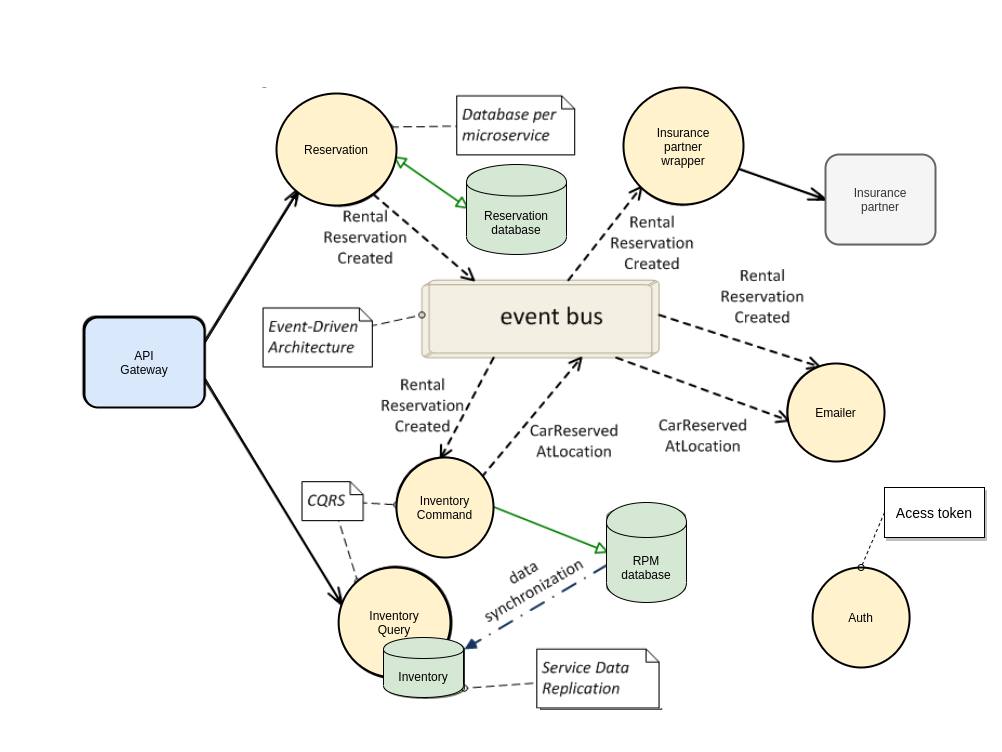
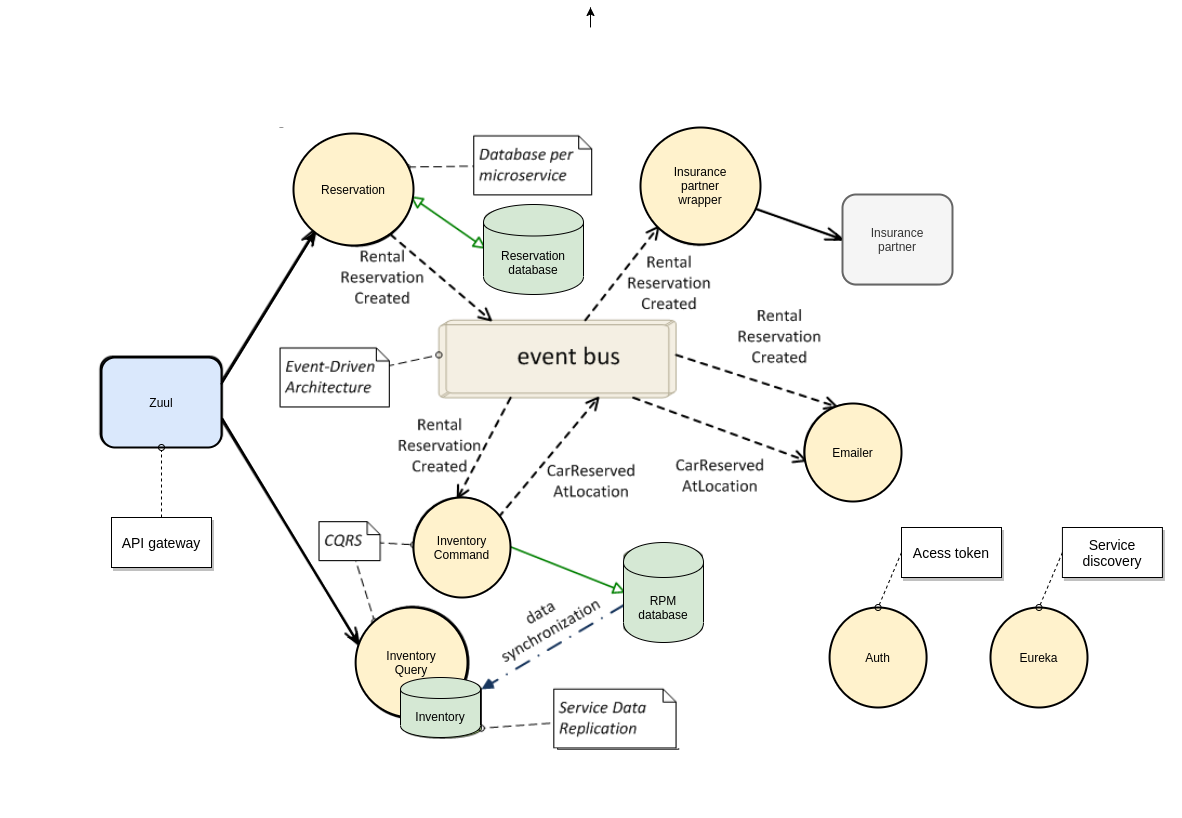
update architecture

Changed region(s): [[0.0619, 0.0918, 0.99, 0.9481], [0.0928, 0.6117, 0.1856, 0.7035], [0.8353, 0.1835, 0.9281, 0.2141]]

diff --git a/rental-car-example/README.md b/rental-car-example/README.md
@@ -12,7 +12,6 @@ This application demonstrates the patterns:
 * [Circuit Breaker](https://microservices.io/patterns/reliability/circuit-breaker.html) - invoke a remote service via a proxy that fails immediately when the failure rate of the remote call exceeds a threshold.
 * [Access Token](https://microservices.io/patterns/security/access-token.html) - a token that securely stores information about user that is exchanged between services.
 * [Distributed tracing](https://microservices.io/patterns/observability/distributed-tracing.html) - instrument services with code that assigns each external request an unique identifier that is passed between services. Record information (e.g. start time, end time) about the work (e.g. service requests) performed when handling the external request in a centralized service.
-* [Exception tracking](https://microservices.io/patterns/observability/exception-tracking.html) - report all exceptions to a centralized exception tracking service that aggregates and tracks exceptions and notifies developers.
 * [Health check API](https://microservices.io/patterns/observability/health-check-api.html) - service API (e.g. HTTP endpoint) that returns the health of the service and can be pinged, for example, by a monitoring service.
 
 ## Architecture
@@ -23,4 +22,15 @@ The following diagram shows the architecture of the Rental Cars application.
 
 The application consists in the services: `API Gateway`, `Auth Service`, `Reservation Service`, `Inventory Command Service`, `Inventory Query Service`, `Emailer Service`, and `Insurance Partner Wrapper Service`.
 
-All services are implemented using Spring Boot.
+All services implemented using:
+
+* [Spring Boot](https://spring.io/projects/spring-boot) - makes it easy to create stand-alone, production-grade Spring based Applications that you can "just run".
+* [Spring Data JPA](https://spring.io/projects/spring-data-jpa) - makes it easy to easily implement JPA based repositories.
+* [Spring Security (OAuth2)](https://spring.io/projects/spring-security-oauth) - is a powerful and highly customizable authentication and access-control framework. 
+* [Spring Cloud Netflix](https://spring.io/projects/spring-cloud-netflix):
+    * Routing (Zuul) - provide a simple, yet effective way to route to APIs and provide cross cutting concerns to them such as: security, monitoring/metrics, and resiliency.
+    * Discovery (Eureka) - instances can be registered and clients can discover the instances using Spring-managed beans.
+    * Circuit Breaker (Hystrix) - provide a consistent API to use in your applications allowing you the developer to choose the circuit breaker implementation that best fits your needs for your app.
+* [Spring Cloud Tracing (Sleuth, Zipkin)](https://spring.io/projects/spring-cloud-sleuth) - implements a distributed tracing solution for Spring Cloud, borrowing heavily from Dapper, Zipkin and HTrace.
+* [Spring Cloud Stream (Kafka)](https://spring.io/projects/spring-cloud-stream) - is a framework for building highly scalable event-driven microservices connected with shared messaging systems.
+* [Axon Framework](https://axoniq.io/resources/concepts#0) - platform has roots in the well established CQRS (Command Query Responsibility Segregation) and Event Sourcing design patterns as well as the DDD (Domain-Driven Design) architecture paradigm.
